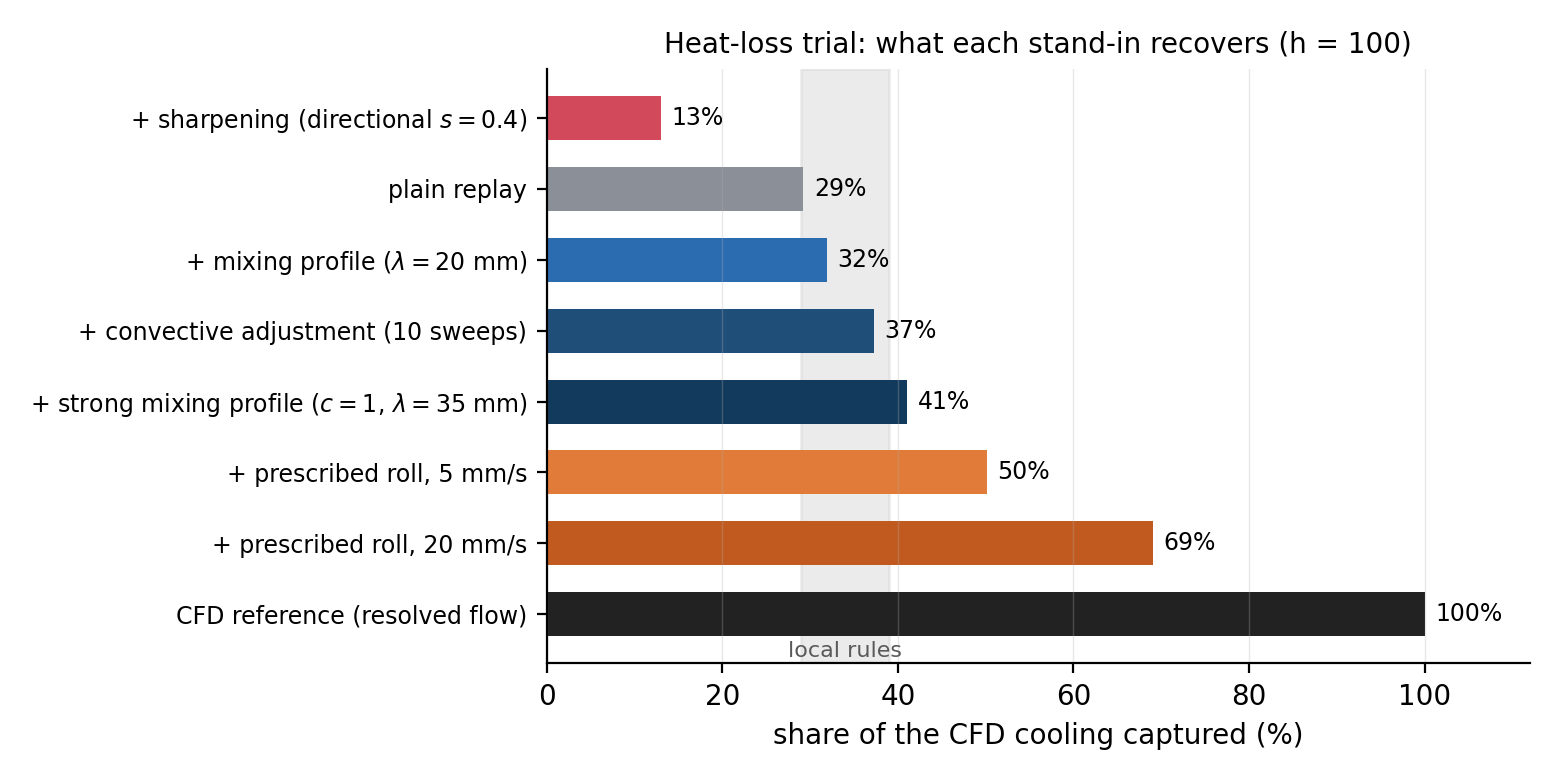
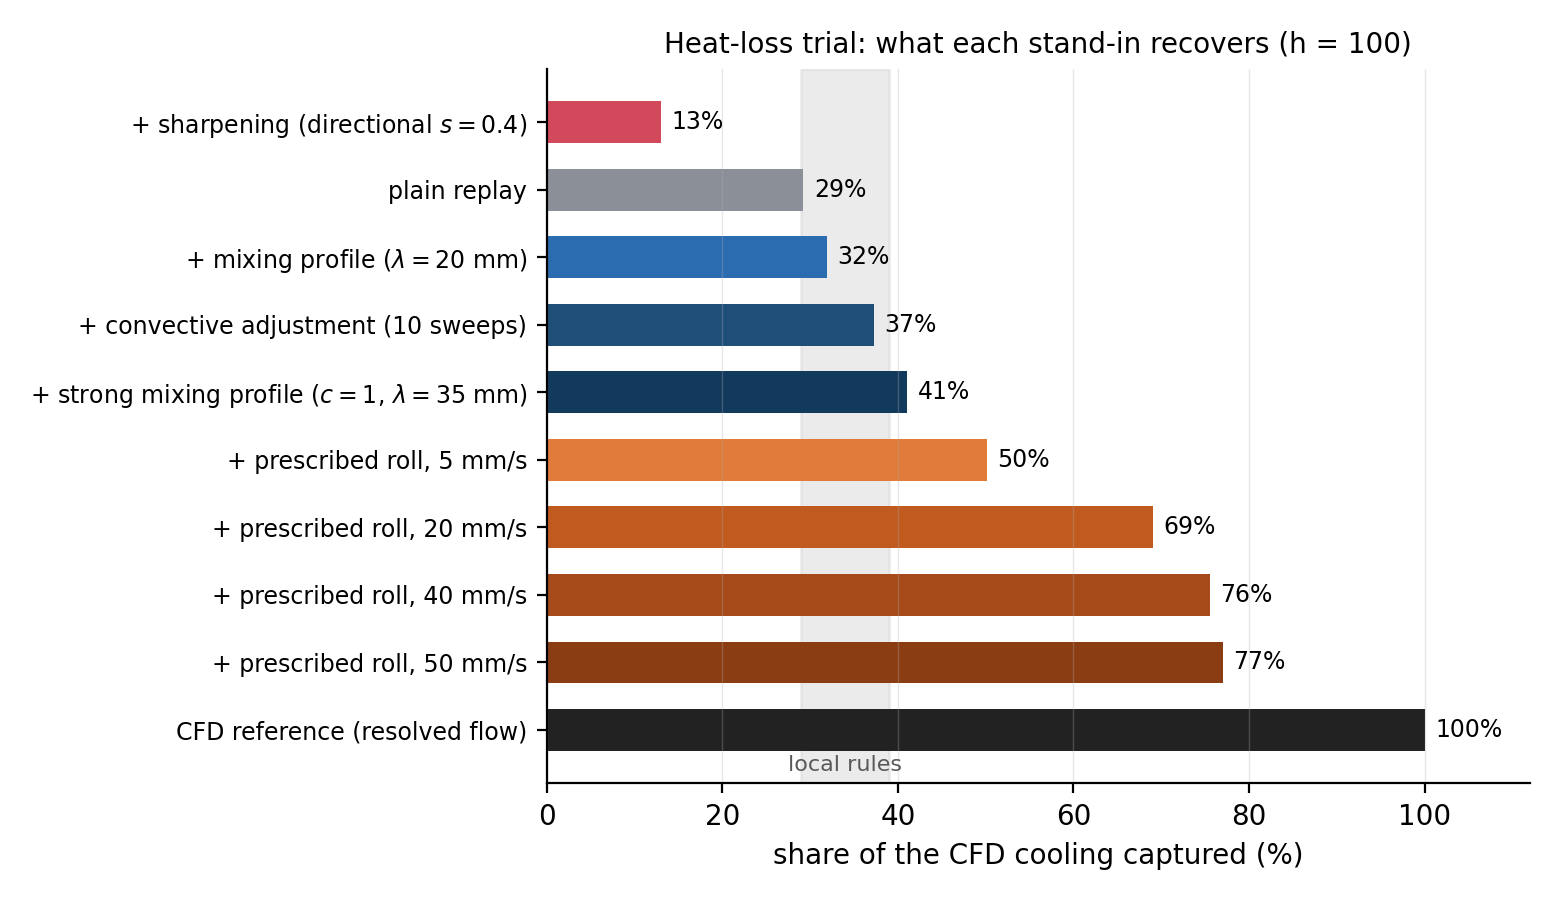
14.1: prescribed roll pushed to 40 and 50 mm/s; recovery saturates near the top of the CFD speed range

diff --git a/index.html b/index.html
@@ -232,7 +232,7 @@
 
 <div class="tldr">
   <h3>TL;DR</h3>
-  <p>Step 1 sets up the full ANSYS Fluent workflow on Windows 11 for a buoyant-jet test case, runs a CFD reference of the jet (its Reynolds number is low, $Re \approx 100$, so the flow is laminar), builds a recurrence-CFD (rCFD) database from it, and then replays that database to reproduce the temperature transport at a fraction of the original cost. We then sweep seven values of the rCFD mixing parameter $f_{sd}$. The best value depends on the metric: $f_{sd}=0.000$ gives the best mean temperature, while $f_{sd}=0.500$ gives the best thermal stratification ($CoG_y$). Step 2 then lets the tank lose heat at the top and tests how far the reused adiabatic database stretches: at the physical $h = 8$, and more visibly at a stronger $h = 100$, the replay captures only about a third of the cooling the full CFD shows, because it cannot reproduce the cooling-driven flow it never recorded. A field-based local diffusivity, read straight from the database, reproduces the hand-tuned $f_{sd} = 0.5$ with no tuning at all. A bounded negative diffusivity — an overshoot guard borrowed from flux-corrected transport, plus a directional weight — now sharpens the thermal front the replay used to smear: at strength $0.4$ it reproduces the CFD front width with no overshoot (§9.4). Under heat loss the same step makes the replay <em>worse</em>, its natural counterpart — a convective adjustment that mixes the unstable cold film downward — buys only a bounded share back (31% to 39% of the CFD cooling), and a prescribed circulation roll breaks that bound (73% at CFD-like speeds). Together they pin the remaining gap on the missing overturning flow, whose clean home is the database (§14.1).</p>
+  <p>Step 1 sets up the full ANSYS Fluent workflow on Windows 11 for a buoyant-jet test case, runs a CFD reference of the jet (its Reynolds number is low, $Re \approx 100$, so the flow is laminar), builds a recurrence-CFD (rCFD) database from it, and then replays that database to reproduce the temperature transport at a fraction of the original cost. We then sweep seven values of the rCFD mixing parameter $f_{sd}$. The best value depends on the metric: $f_{sd}=0.000$ gives the best mean temperature, while $f_{sd}=0.500$ gives the best thermal stratification ($CoG_y$). Step 2 then lets the tank lose heat at the top and tests how far the reused adiabatic database stretches: at the physical $h = 8$, and more visibly at a stronger $h = 100$, the replay captures only about a third of the cooling the full CFD shows, because it cannot reproduce the cooling-driven flow it never recorded. A field-based local diffusivity, read straight from the database, reproduces the hand-tuned $f_{sd} = 0.5$ with no tuning at all. A bounded negative diffusivity — an overshoot guard borrowed from flux-corrected transport, plus a directional weight — now sharpens the thermal front the replay used to smear: at strength $0.4$ it reproduces the CFD front width with no overshoot (§9.4). Under heat loss the same step makes the replay <em>worse</em>, its natural counterpart — a convective adjustment that mixes the unstable cold film downward — buys only a bounded share back (31% to 39% of the CFD cooling), and a prescribed circulation roll breaks that bound (73% at 20 mm/s, saturating near 82% at the top of the CFD speed range). Together they pin the remaining gap on the missing overturning flow, whose clean home is the database (§14.1).</p>
   <button class="quick-tour-trigger" id="quickTourBtn" type="button"
           title="Auto-scroll through the five key figures (~60 s)">
     <svg viewBox="0 0 24 24" fill="none" stroke="currentColor"
@@ -2563,6 +2563,8 @@ rcfd_modify_balance_mass_source_one(handle, water, water_temp, -per_node_wall_he
 <tr><td>replay + strong mixing profile ($c=1$, $\lambda=35$ mm)</td><td class="num">303.22</td><td class="num">4.27</td><td class="num">44%</td></tr>
 <tr><td>replay + prescribed roll, 5 mm/s</td><td class="num">302.27</td><td class="num">5.22</td><td class="num">53%</td></tr>
 <tr><td>replay + prescribed roll, 20 mm/s</td><td class="num">300.31</td><td class="num">7.18</td><td class="num">73%</td></tr>
+<tr><td>replay + prescribed roll, 40 mm/s</td><td class="num">299.65</td><td class="num">7.84</td><td class="num">80%</td></tr>
+<tr><td>replay + prescribed roll, 50 mm/s</td><td class="num">299.50</td><td class="num">7.99</td><td class="num">82%</td></tr>
 </tbody>
 </table>
 </div>
@@ -2585,11 +2587,11 @@ rcfd_modify_balance_mass_source_one(handle, water, water_temp, -per_node_wall_he
 
 <p>The saturation is as telling as the gain: ten sweeps buy only a few points more than one, and a second, sharper variant confirms the cap is real. In a <em>sorting</em> mode the unstable pair swaps content instead of mixing, so a cold parcel falls one cell per sweep undiluted, the way a plume would — and it lands at the same 38%. A third local rule, a penetrative-mixing profile in the spirit of the ocean-model K-profile closures, lands at 34%: every vertical pair exchanges a share $c\,e^{-d/\lambda}$ of its imbalance towards the pair mean per step ($c = 0.3$, depth $d$ from the top wall, $\lambda = 20$ mm) — through stable columns too, which is its point. Three mechanisms this different agreeing on one number means the limit is not an artefact of any scheme. What limits them all is the supply side: the wall keeps extracting heat only if warm fluid keeps arriving at the surface, and that is the job of the overturning loop, which reaches into the stably stratified bulk where no local rule acts. Together they <em>bound</em> what local scalar-side operators can contribute at roughly a third of the CFD cooling.</p>
 
-<p><strong>Breaking the bound, deliberately.</strong> To confirm that reading, the last two table rows step outside the local family: a <em>prescribed circulation</em> — a double convection roll spanning the hot layer from the front height ($y = 40$ mm) to the top wall, down at both side walls and up in the centre, defined by the streamfunction $\psi \propto \sin(2\pi x/L_x)\sin(\pi(y-y_0)/L_y)$ with peak speed $U_0$. Each replay step is split into ten sub-steps, and in each the faces exchange along the local roll velocity (moved fraction capped at 0.45 per sub-step), in the same bounded pairwise form as the adjustment, so no cell can leave its pair range. Like every rung in this table, it sits behind a single define in the same user file, so each row can be reproduced by one switch and a replay. A circulation is not a local rule, and it breaks through the bound: 53% of the CFD cooling at $U_0 = 5$ mm/s, 73% at 20 mm/s — speeds inside the range of the recorded CFD flow (the velocity figures of this study span 0–50 mm/s). Even the strongest diffusive stand-in (the mixing profile at full strength over the whole hot layer, 44%) stays clearly below the organised circulation: diffusive transport, however strong, delivers warm fluid to the surface less effectively than a loop. And every run in the table is verified the same way: each field stays inside the physical 293–333 K range (the largest end-field maximum of the whole set is 329.2 K), and the roll re-run behind the montage reproduced its trace bit for bit. Two honest notes belong to this. The roll is a calibrated model (its speed and geometry are set by hand), so it demonstrates the mechanism rather than predicting from the database. And its numerics teach the final lesson: a pure donor-cell transfer of the prescribed advection diverges at the user level, because the hook has neither the divergence-free discretisation nor the partition synchronisation of the cell-to-cell machinery — only the bounded exchange form is stable. Prescribed transport wants to live where recorded transport lives: in the database, either recorded from the cooling regime (§15, §16) or written into the cell-to-cell patterns as synthetic displacement fields.</p>
+<p><strong>Breaking the bound, deliberately.</strong> To confirm that reading, the roll rows of the table step outside the local family: a <em>prescribed circulation</em> — a double convection roll spanning the hot layer from the front height ($y = 40$ mm) to the top wall, down at both side walls and up in the centre, defined by the streamfunction $\psi \propto \sin(2\pi x/L_x)\sin(\pi(y-y_0)/L_y)$ with peak speed $U_0$. Each replay step is split into ten sub-steps, and in each the faces exchange along the local roll velocity (moved fraction capped at 0.45 per sub-step), in the same bounded pairwise form as the adjustment, so no cell can leave its pair range. Like every rung in this table, it sits behind a single define in the same user file, so each row can be reproduced by one switch and a replay. A circulation is not a local rule, and it breaks through the bound: 53% of the CFD cooling at $U_0 = 5$ mm/s, 73% at 20 mm/s — speeds inside the range of the recorded CFD flow (the velocity figures of this study span 0–50 mm/s). Pushed to the top of that range, the recovery keeps climbing but flattens: 80% at 40 mm/s, 82% at 50 mm/s. Part of the saturation is numerical, since at high speeds more and more faces run into the exchange cap; part is structural: the roll is steady and its geometry fixed, while the CFD overturning is unsteady and reaches deeper as the layer cools. Even a generous prescribed circulation stops short of the CFD. Even the strongest diffusive stand-in (the mixing profile at full strength over the whole hot layer, 44%) stays clearly below the organised circulation: diffusive transport, however strong, delivers warm fluid to the surface less effectively than a loop. And every run in the table is verified the same way: each field stays inside the physical 293–333 K range (the largest end-field maximum of the whole set is 329.2 K), and the roll re-run behind the montage reproduced its trace bit for bit. Two honest notes belong to this. The roll is a calibrated model (its speed and geometry are set by hand), so it demonstrates the mechanism rather than predicting from the database. And its numerics teach the final lesson: a pure donor-cell transfer of the prescribed advection diverges at the user level, because the hook has neither the divergence-free discretisation nor the partition synchronisation of the cell-to-cell machinery — only the bounded exchange form is stable. Prescribed transport wants to live where recorded transport lives: in the database, either recorded from the cooling regime (§15, §16) or written into the cell-to-cell patterns as synthetic displacement fields.</p>
 
 <figure class="wide">
-  <img src="assets/figures/fig_negdiff_ld_hl_ladder.png" alt="Bar chart: share of the CFD cooling captured by each stand-in, from sharpening at 13 percent through local rules near a third to the prescribed roll at 69 percent and the CFD at 100" style="max-width:860px;width:100%;display:block;margin:0 auto;border-radius:6px;">
-  <figcaption><span class="label">Figure 11f.</span> The ladder as one picture, computed from the raw temperature traces. Local rules cluster in the shaded band; only the prescribed circulation climbs out of it, and it climbs with its speed.</figcaption>
+  <img src="assets/figures/fig_negdiff_ld_hl_ladder.png" alt="Bar chart: share of the CFD cooling captured by each stand-in, from sharpening at 13 percent through local rules near a third to the prescribed roll rungs that flatten near 77 percent and the CFD at 100" style="max-width:860px;width:100%;display:block;margin:0 auto;border-radius:6px;">
+  <figcaption><span class="label">Figure 11f.</span> The ladder as one picture, computed from the raw temperature traces. Local rules cluster in the shaded band; only the prescribed circulation climbs out of it, and it climbs with its speed until it flattens at the top of the CFD speed range.</figcaption>
 </figure>
 
 <figure class="wide">
